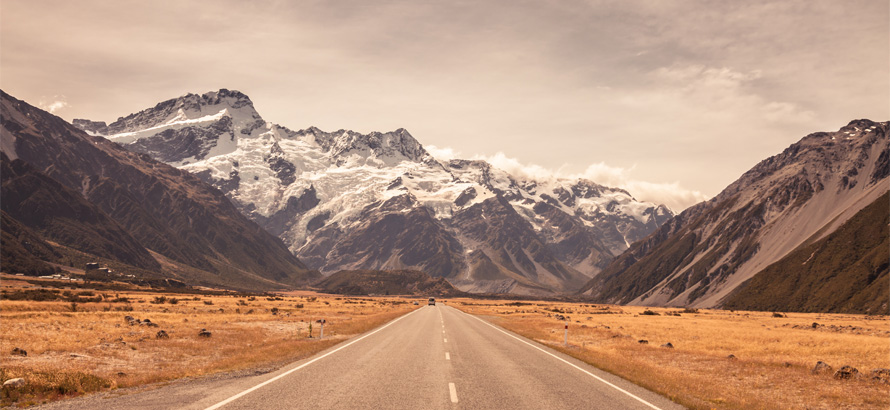
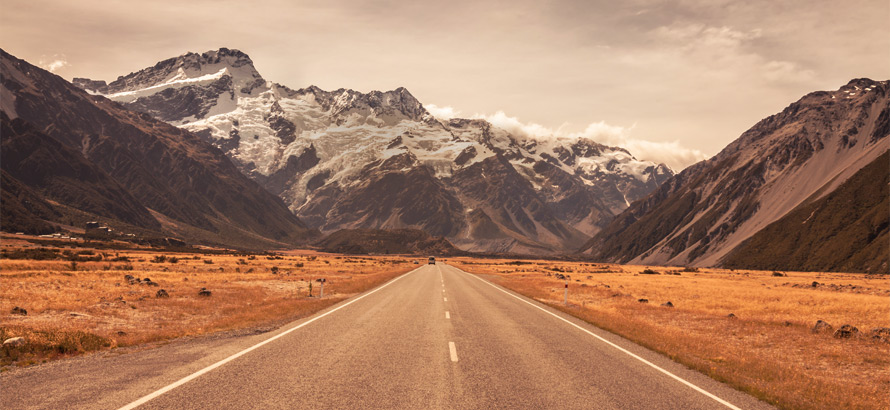
More support for custom header.

diff --git a/style.css b/style.css
@@ -433,7 +433,7 @@ a:active {
 }
 
 #page {
-  max-width: 880px;
+  max-width: 890px;
   margin: 0 auto;
   background-color: #FFF;
   position: relative;
@@ -540,7 +540,7 @@ a:active {
 }
 
 /* Larger Screen Sizes */
-@media screen and (min-width: 880px) {
+@media screen and (min-width: 890px) {
   .main-navigation a {
     font-size: 15px;
     padding: 10px;
@@ -613,7 +613,7 @@ a:active {
   display: none;
 }
 
-@media screen and (max-width: 879px) {
+@media screen and (max-width: 889px) {
   .main-navigation {
     padding: 1.75em 6em .5em;
   }
@@ -815,6 +815,7 @@ a:active {
   padding: 0 0 3em;
   margin: 0 0 3em;
   border-bottom: 1px solid #eee;
+  overflow: hidden;
 }
 
 .hentry:last-of-type {
@@ -826,7 +827,7 @@ a:active {
 }
 
 .entry-title {
-  font-size: 32px;
+  font-size: 30px;
   line-height: 1.25;
   margin-bottom: .25em;
 }
@@ -1233,19 +1234,19 @@ a:active {
 .alignleft {
   display: inline;
   float: left;
-  margin-right: 15px;
+  margin: 0 15px 15px 0;
 }
 
 .alignright {
   display: inline;
   float: right;
-  margin-left: 15px;
+  margin: 0 0 15px 15px;
 }
 
 .aligncenter {
   clear: both;
   display: block;
-  margin: 0 auto;
+  margin: 0 auto 15px;
 }
 
 .page-content img.wp-smiley,
@@ -1440,7 +1441,7 @@ body #content div.sharedaddy h3 {
     display: none;
   }
 }
-@media screen and (min-width: 880px) {
+@media screen and (min-width: 890px) {
   #page {
     margin: 80px auto;
   }

diff --git a/scss/style.scss b/scss/style.scss
@@ -428,6 +428,7 @@ a:active {
 	padding: 0 0 3em;
 	margin: 0 0 3em;
 	border-bottom: 1px solid #eee;
+	overflow: hidden;
 }
 .hentry:last-of-type {
 	margin: 0 0 1.5em;
@@ -436,7 +437,7 @@ a:active {
 	margin:0 0 1.5em;
 }
 .entry-title {
-	font-size:32px;
+	font-size:30px;
 	line-height:1.25;
 	margin-bottom:.25em;
 }
@@ -790,17 +791,17 @@ a:active {
 .alignleft {
 	display: inline;
 	float: left;
-	margin-right: 15px;
+	margin: 0 15px 15px 0;
 }
 .alignright {
 	display: inline;
 	float: right;
-	margin-left: 15px;
+	margin: 0 0 15px 15px;
 }
 .aligncenter {
 	clear: both;
 	display: block;
-	margin: 0 auto;
+	margin: 0 auto 15px;
 }
 .page-content img.wp-smiley,
 .entry-content img.wp-smiley,

diff --git a/scss/_variables.scss b/scss/_variables.scss
@@ -10,6 +10,6 @@ $font-2 : 'Noto Serif', serif;
 // Breakpoints
 
 $breakpoint-1 : 1024px;
-$breakpoint-2 : 880px;
+$breakpoint-2 : 890px;
 $breakpoint-3 : 640px;
 $breakpoint-4 : 480px;

diff --git a/header.php b/header.php
@@ -23,12 +23,15 @@
 
 	<header id="masthead" class="site-header" role="banner">
 
-		<?php if ( get_header_image() ) : ?>
+		<?php
+		$image = get_header_image();
+		if ( '' == $image ) {
+			$image = get_template_directory_uri() . '/images/blank.gif';
+		} ?>
 		<div class="header-image">
-			<img src="<?php header_image(); ?>" width="<?php echo get_custom_header()->width; ?>" height="<?php echo get_custom_header()->height; ?>" alt="">
+			<img src="<?php echo $image; ?>" width="<?php get_custom_header()->width; ?>" height="<?php echo get_custom_header()->height; ?>" alt="">
 			<div class="opacity"></div>
 		</div>
-		<?php endif; // End header image check. ?>
 
 		<div class="site-branding">
 

diff --git a/inc/customizer/styles.php b/inc/customizer/styles.php
@@ -47,6 +47,20 @@ function currents_build_css_rules() {
 		) );
 	}
 
+	// Header Background Color
+	$setting = 'header-background-color';
+	$mod = get_theme_mod( $setting, currents_get_default( $setting ) );
+
+	if ( $mod !== currents_get_default( $setting ) ) {
+
+		currents_css()->add( array(
+			'selectors'    => array( '#masthead' ),
+			'declarations' => array(
+				'background' => $mod
+			)
+		) );
+	}
+
 	// Header Overlay Opacity
 	$setting = 'header-overlay-opacity';
 	$mod = get_theme_mod( $setting, currents_get_default( $setting ) );

diff --git a/inc/customizer/options.php b/inc/customizer/options.php
@@ -74,6 +74,14 @@ function currents_options() {
 		'priority' => '70'
 	);
 
+	$options['header-background-color'] = array(
+		'id' => 'header-background-color',
+		'label'   => __( 'Header Background Color', 'currents' ),
+		'section' => $section,
+		'type'    => 'color',
+		'default' => '#3fc0c3',
+	);
+
 	$options['header-overlay-color'] = array(
 		'id' => 'header-overlay-color',
 		'label'   => __( 'Header Overlay Color', 'currents' ),

diff --git a/inc/custom-header.php b/inc/custom-header.php
@@ -13,7 +13,7 @@ function currents_custom_header_setup() {
 	add_theme_support( 'custom-header', apply_filters( 'currents_custom_header_args', array(
 		'default-image'          => get_template_directory_uri() . '/images/mountain.jpg',
 		'default-text-color'     => 'ffffff',
-		'width'                  => 880,
+		'width'                  => 890,
 		'height'                 => 410,
 		'flex-height'            => true
 	) ) );

diff --git a/inc/customizer/customizer.php b/inc/customizer/customizer.php
@@ -50,7 +50,7 @@ require_once $path . '/custom-controls/textarea.php';
  */
 function currents_customize_preview_js() {
 
-	$path = get_template_directory() . '/inc/customizer';
+	$path = get_template_directory_uri() . '/inc/customizer';
 
 	wp_enqueue_script( 'currents_customizer', $path . '/js/customizer.js', array( 'customize-preview' ), CURRENTS_VERSION, true );
 
